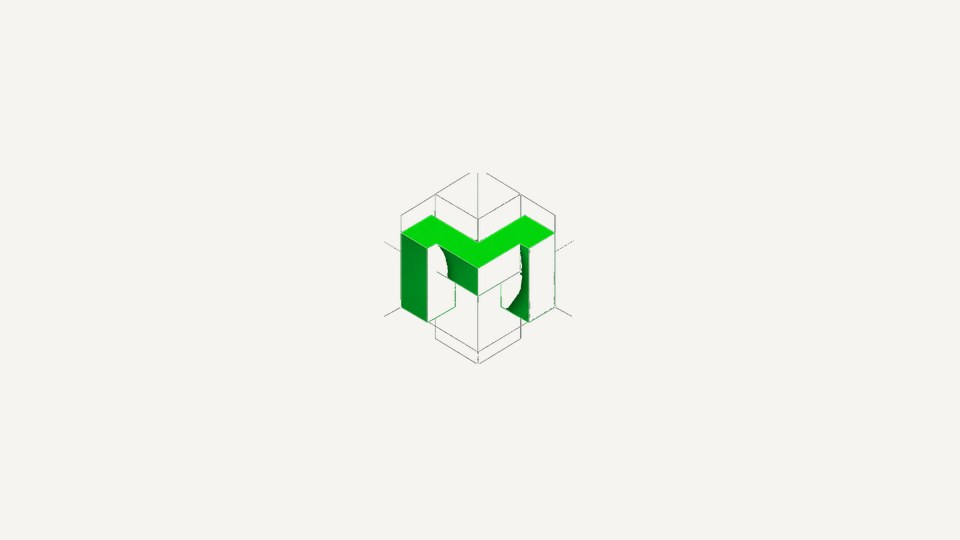
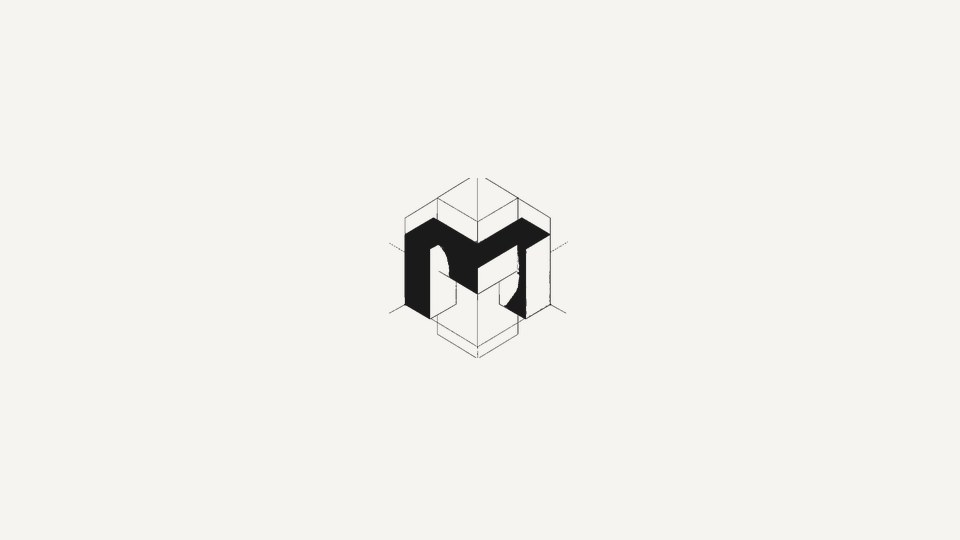
cinema lightbox (click card or Watch the film), happy model ink mono cover

Changed region(s): [[0.4062, 0.3556, 0.5938, 0.6222], [0.4688, 0.6222, 0.5312, 0.6815], [0.4688, 0.3259, 0.5312, 0.3556]]

diff --git a/docs/index.html b/docs/index.html
@@ -58,6 +58,13 @@
   .flinks { margin-top: 34px; font-family: Hellix, arial, sans-serif; font-size: 11px; letter-spacing: 0.22em; color: var(--mut);
     text-transform: uppercase; display: flex; gap: 36px; justify-content: center; flex-wrap: wrap; }
   .flinks a { text-decoration: none; }
+  /* lightbox */
+  .lb { position: fixed; inset: 0; z-index: 100; background: rgba(8,8,8,0.94); display: none; align-items: center; justify-content: center; }
+  .lb.open { display: flex; }
+  .lb video { max-width: 88vw; max-height: 82vh; outline: none; box-shadow: 0 40px 140px rgba(0,0,0,0.6); }
+  .lb .x { position: absolute; top: 26px; right: 34px; font-family: Hellix, arial, sans-serif; font-weight: 300; font-size: 34px; color: #fff; cursor: pointer; line-height: 1; }
+  .lb .cap { position: absolute; bottom: 30px; left: 50%; transform: translateX(-50%); color: rgba(255,255,255,0.85);
+    font-family: "Atacama VAR", Georgia, serif; font-size: 20px; letter-spacing: 0.02em; }
   .reveal { opacity: 0; transition: opacity 1.1s ease; }
   .reveal.in { opacity: 1; }
 </style>
@@ -67,6 +74,12 @@
 <div class="masthead"><div class="mk">30X</div><div class="ml">Web-to-Video Films</div></div>
 
 <main id="plp"></main>
+
+<div class="lb" id="lb">
+  <span class="x" id="lbx">&times;</span>
+  <video id="lbv" controls playsinline></video>
+  <div class="cap" id="lbcap"></div>
+</div>
 
 <footer>
   <div class="fmark">30X</div>
@@ -124,15 +137,42 @@ const ro = new IntersectionObserver(es => es.forEach(e => {
 }), { rootMargin: "-30px" });
 document.querySelectorAll(".reveal").forEach(el => ro.observe(el));
 
+const lb = document.getElementById("lb"), lbv = document.getElementById("lbv"), lbcap = document.getElementById("lbcap");
+function openLB(f, name) {
+  document.querySelectorAll(".tile video, .push video").forEach(o => { o.pause(); o.muted = true; o.load(); });
+  lbv.src = `films/${f}.mp4`; lbcap.textContent = name;
+  lb.classList.add("open"); document.body.style.overflow = "hidden";
+  lbv.muted = false; lbv.play().catch(()=>{});
+}
+function closeLB() {
+  lbv.pause(); lbv.removeAttribute("src"); lbv.load();
+  lb.classList.remove("open"); document.body.style.overflow = "";
+}
+document.getElementById("lbx").addEventListener("click", closeLB);
+lb.addEventListener("click", e => { if (e.target === lb) closeLB(); });
+addEventListener("keydown", e => { if (e.key === "Escape") closeLB(); });
+
 document.querySelectorAll(".tile, .push").forEach(card => {
   const v = card.querySelector("video");
   card.addEventListener("mouseenter", () => { v.muted = true; v.play().catch(()=>{}); });
-  card.addEventListener("mouseleave", () => { if (v.muted) { v.pause(); v.removeAttribute('controls'); card.classList.remove('playing'); v.load(); } });
+  card.addEventListener("mouseleave", () => { v.pause(); card.classList.remove("playing"); v.load(); });
   card.addEventListener("click", () => {
-    document.querySelectorAll(".tile video, .push video").forEach(o => {
-      if (o !== v) { o.pause(); o.muted = true; o.controls = false; o.closest(".tile,.push").classList.remove("playing"); }
-    });
-    v.muted = false; v.controls = true; card.classList.add("playing"); v.play().catch(()=>{});
+    const f = card.dataset.f;
+    const cap = card.closest("div").parentElement.querySelector(".tcap .n, .fcap .b");
+    openLB(f, (cap && cap.textContent) || "");
+  });
+});
+// Watch the film 链接也开灯箱
+document.querySelectorAll(".tcap").forEach(tc => {
+  const w = tc.querySelector(".w"); if (!w) return;
+  w.style.cursor = "pointer";
+  w.addEventListener("click", () => {
+    // 找同组前面的 tile/push
+    let el = tc.previousElementSibling;
+    if (!el || (!el.classList.contains("tile") && !el.classList.contains("push"))) {
+      el = tc.parentElement.querySelector(".tile, .push");
+    }
+    if (el) openLB(el.dataset.f, tc.querySelector(".n").textContent);
   });
 });
 
